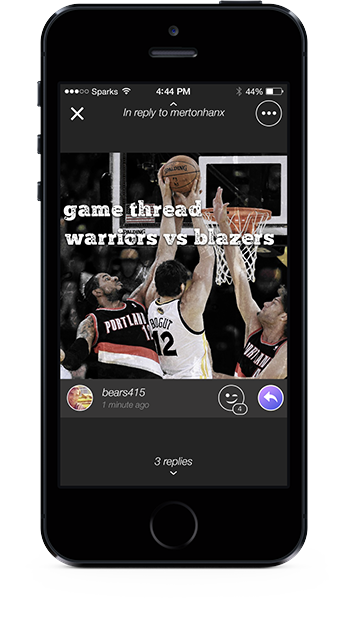
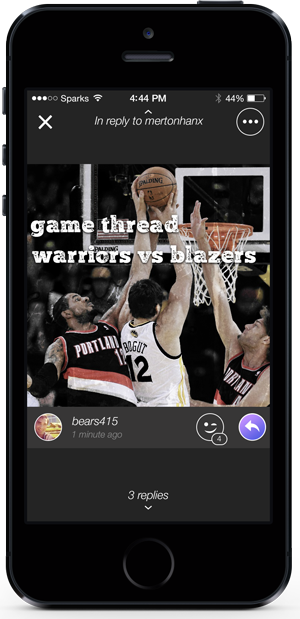
Fix sketch image part what sparks

diff --git a/javascript/sparks-scroll/src/style/sass/layout/_slide-spark.scss b/javascript/sparks-scroll/src/style/sass/layout/_slide-spark.scss
@@ -8,32 +8,28 @@
 
 	.sparks-background {
 		background-repeat: no-repeat;
-		background-size: 100% 100%;
 		position: absolute;
 	}
 	.sparks-iphone-4 {
 		background-image: url('../images/iPhone-5S.png');
 		@extend .sparks-background;
-		width: 25%;
+		width: rem(358px);
 		height: rem(630px);
-		top: rem(750px);
-		left: 47%;
 	}
 
 	.sparks-iphone-5 {
 		background-image: url('../images/iPhone-4S.png');
 		@extend .sparks-background;
-		width: 35%;
+		width: rem(525px);
 		height: rem(523px);
-		top: rem(950px);
-		left: 53%;
+		top: rem(240px);
+		left: rem(40px);
 		z-index: 1;
 	}
 	.wapper-content {
 		position: absolute;
-		width: 32%;
-		top: rem(780px);
-		left: 17%;
+		left: 20%;
+		top: rem(50px);
 		.sparks-what-text {
 			font-family: $font-roboto;
 			@include font-text(rem(50px), lighter, $black);
@@ -83,15 +79,13 @@
  * Styles with mobile 
  * max-width: 480px
  */
-@media (max-width: 480px) {
+@media screen and (max-width: 480px) {
 
 	.slide-what-sparks {
 		height: 280px;
 		.wapper-content {
 			position: absolute;
-			top: rem(310px);
 			left: 8%;
-			width: 43%;
 			.sparks-what-text {
 				font-family: $font-roboto;
 				@include font-text(rem(14px), bold, $black);
@@ -127,19 +121,19 @@
 			}
 		}
 
-		.sparks-iphone-4 {
-			top: rem(290px);
-			left: 48%;
-			width: 30%;
-			height: rem(250px);
-		}
+		.background-sparks {
+			.sparks-iphone-4 {
+				height: 25rem;
+				width: 55%;
+			}
 
-		.sparks-iphone-5 {
-			top: rem(380px);
-			left: 54%;
-			height: rem(220px);
-			width: 42%;
-			z-index: 1;
+			.sparks-iphone-5 {
+				height: rem(220px);
+				width: 82%;
+				z-index: 1;
+				top: rem(100px);
+				left: 30px;
+			}
 		}
 	}
 }
@@ -148,14 +142,14 @@
  * Styles with screen 
  * max-width: 768px
  */
-@media screen and (max-width: 768px) and (min-width: 480px) {
+@media screen and (max-width: 768px) and (min-width: 481px) {
 
 	.slide-what-sparks {
-		height: 335px;
+		height: rem(435px);
 		.wapper-content {
-			left: 6%;
-			width: 34%;
-			top: rem(600px);
+			left: 15%;
+			top: rem(10px);
+    	margin: 0 auto;
 			.sparks-what-text {
 				font-family: $font-roboto;
 				@include font-text(rem(24px), bold, $black);
@@ -163,6 +157,7 @@
 
 			.fan-iphone {
 				font-family: $font-roboto;
+				line-height: 14px;
 				@include font-text(rem(16px), lighter, $black);
 			}
 
@@ -178,8 +173,9 @@
 					margin: rem(5px -5px 5px 0);
 					font-family: $font-roboto;
 					@include font-text(rem(14px), lighter, $black);
-					margin-bottom: rem(5px);
+					margin-bottom: rem(3px);
 					list-style: none;
+					line-height: 20px;
 					display: inline-block;
 				}
 			}
@@ -189,20 +185,40 @@
 				@include font-text(rem(14px), bold, $black);
 			}
 		}
+		
+		.background-sparks {
+			.sparks-iphone-4 {
+				height: rem(400px);
+				width: 55%;
+			}
 
+			.sparks-iphone-5 {
+				height: rem(365px);
+				z-index: 1;
+				width: 85%;
+				top: rem(150px);
+				left: rem(41px);
+			}
+		}
+	}
+}
+
+@media screen and (max-width: 1024px) {
+
+	.slide-what-sparks {
 		.sparks-iphone-4 {
-			top: rem(570px);
-			left: 45%;
-			height: rem(420px);
-			width: 30%;
+			background-image: url('../images/iPhone-5S.png');
+			width: rem(250px);
+			height: rem(560px);
+			background-size: 100% 100%;
 		}
 
 		.sparks-iphone-5 {
-			top: rem(710px);
-			left: 52%;
-			height: rem(365px);
+			background-image: url('../images/iPhone-4S.png');
+			width: rem(398px);
+			height: rem(523px);
+			background-size: 100% 100%;
 			z-index: 1;
-			width: 40%;
 		}
 	}
 }

diff --git a/javascript/sparks-scroll/src/style/sass/module/_header.scss b/javascript/sparks-scroll/src/style/sass/module/_header.scss
@@ -190,7 +190,7 @@
 @media screen and (max-width: 768px) and (min-width: 481px){
 	.slide-basket-pitch {
 		width: 100%;
-		height: 700px;
+		height: rem(530px);
 		.background-basket {
 			background-position: center center;
 			height: rem(530px);

diff --git a/javascript/sparks-scroll/src/style/sass/module/_button.scss b/javascript/sparks-scroll/src/style/sass/module/_button.scss
@@ -15,7 +15,7 @@
 	line-height: rem(70px);
 
 	&:hover {
-		background-color: $button-hover;
+		background-color: #b7a4f7;
 		text-decoration: none;
 	}
 }
